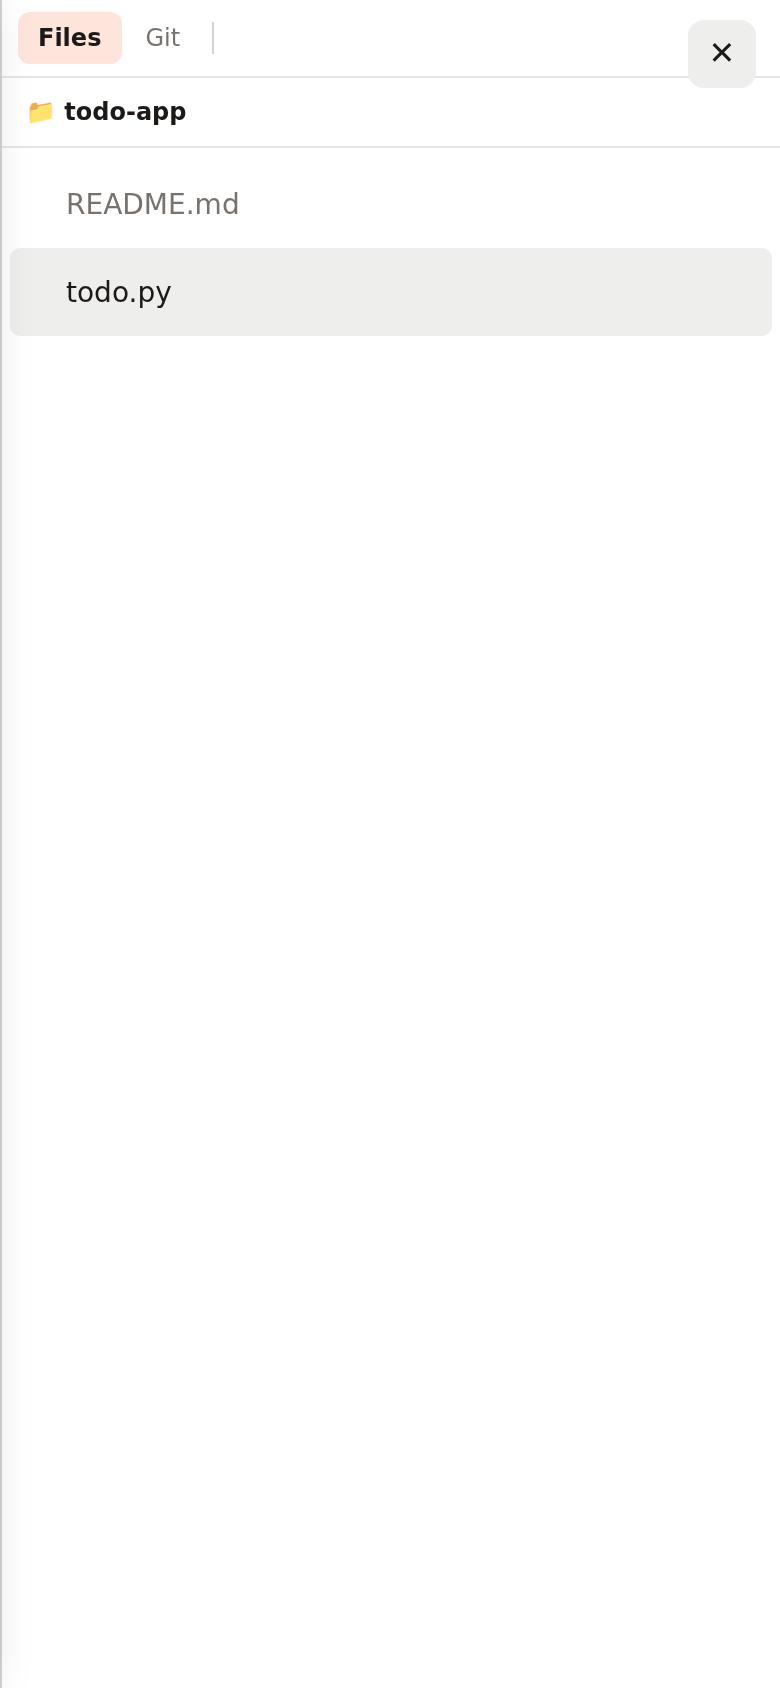
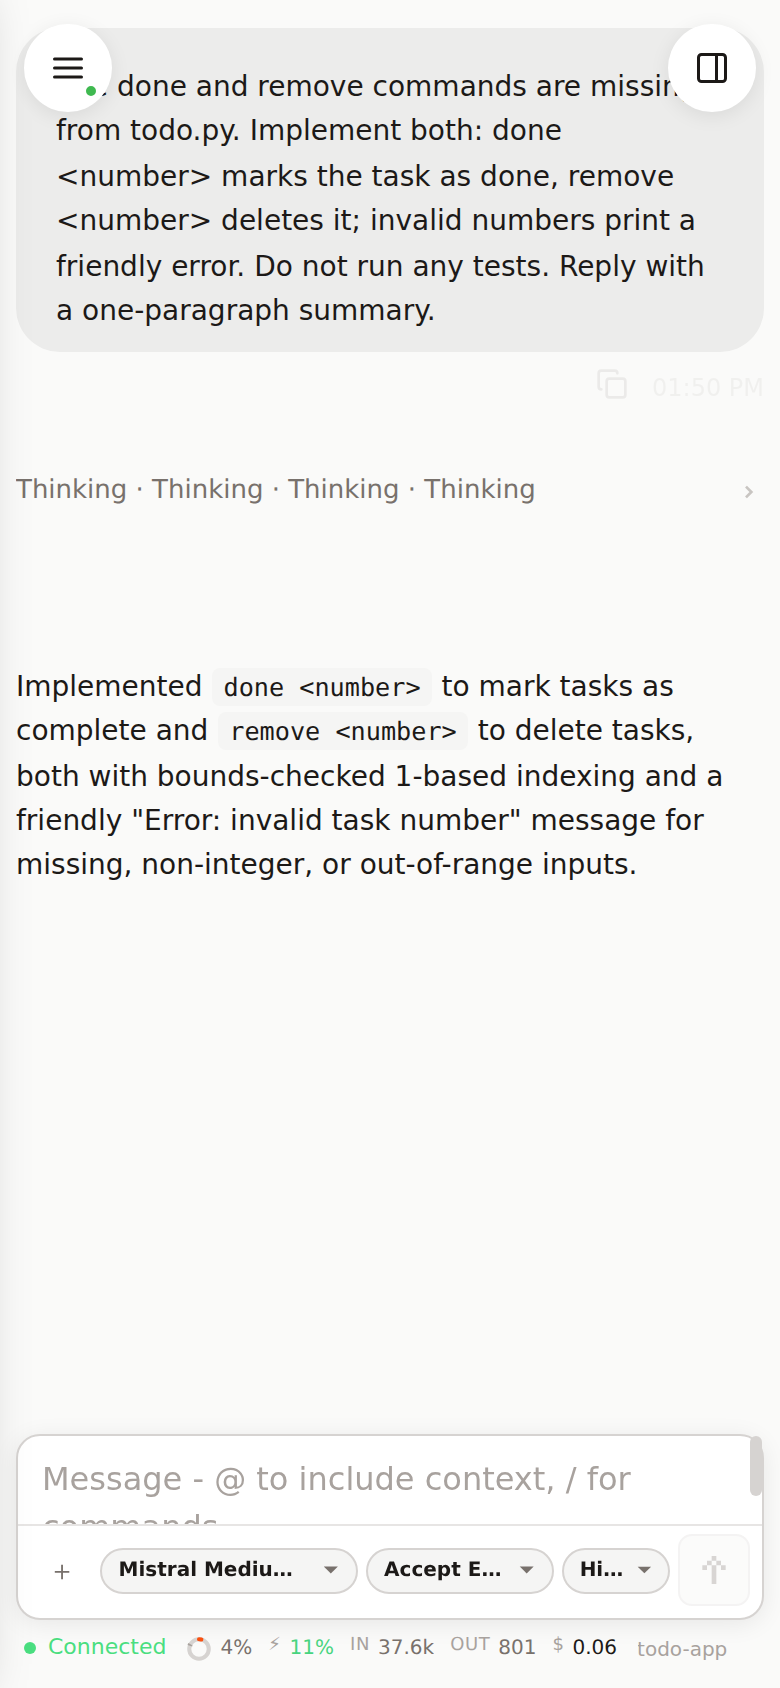
docs: mobile screenshot with one-row toolbar

diff --git a/src/renderer/src/styles/globals.css b/src/renderer/src/styles/globals.css
@@ -5507,11 +5507,14 @@ code {
 .picker-item-label { font-size: 13px; }
 .picker-item-desc { font-size: 11px; color: var(--text-muted); white-space: nowrap; overflow: hidden; text-overflow: ellipsis; max-width: 420px; }
 
-/* ── Narrow-window toolbar wrapping (v0.4.0) ── */
-.input-card-toolbar { flex-wrap: wrap; row-gap: 4px; }
-.input-card-left { flex-shrink: 1; min-width: 0; }
+/* ── Narrow-window toolbar (v0.4.0; v1.0.34: the attach button,
+   chips and send ALWAYS share one row - chips shrink with ellipsis
+   instead of wrapping, and show in full whenever there is room) ── */
+.input-card-toolbar { flex-wrap: nowrap; row-gap: 4px; }
+.input-card-left { flex-shrink: 1; min-width: 0; flex-wrap: nowrap; }
 .ic-folder-name { max-width: 220px; overflow: hidden; text-overflow: ellipsis; white-space: nowrap; }
-.input-card-right { flex-wrap: wrap; justify-content: flex-end; margin-left: auto; flex-shrink: 0; }
+.input-card-right { flex-wrap: nowrap; justify-content: flex-end; margin-left: auto; min-width: 0; }
+.input-card-right .ic-chip-wrap { min-width: 0; flex: 0 1 auto; }
 .settings-header { flex-wrap: wrap; gap: 8px; }
 .settings-tabs { flex-wrap: wrap; }
 
@@ -6097,20 +6100,25 @@ code {
         font-size: 16px;
         padding: 10px 12px 6px;
     }
+    /* v1.0.34: the attach button, chips and send ALWAYS share one row;
+       chips shrink (ellipsis) instead of wrapping */
     .input-card-toolbar {
-        flex-wrap: wrap;
+        flex-wrap: nowrap;
         gap: 6px;
         padding: 4px 6px 6px;
     }
     .input-card-left,
-    .input-card-right { flex-wrap: wrap; }
+    .input-card-right { flex-wrap: nowrap; min-width: 0; }
+    .input-card-right .ic-chip-wrap { min-width: 0; flex: 0 1 auto; }
     .ic-folder-name { max-width: 96px; }
     .ic-btn { width: 32px; height: 32px; }
     .ic-send-btn,
     .ic-stop-btn { width: 36px; height: 36px; }
 
-    /* chips: value only (the label is in the title tooltip) */
-    .ic-chip { max-width: 130px; padding: 3px 8px; font-size: 10px; }
+    /* chips: value only (the label is in the title tooltip); v1.0.34: no
+       fixed width cap - the chip fills its (possibly shrunk) wrapper and the
+       value ellipsizes only when the row is too tight */
+    .ic-chip { max-width: 100%; min-width: 0; padding: 3px 8px; font-size: 10px; }
     .ic-chip-label { display: none; }
     .ic-chip-dropdown {
         min-width: min(240px, 86vw);
@@ -6118,9 +6126,8 @@ code {
         max-height: 40vh;
         overflow-y: auto;
     }
-    /* chips wrap onto their own row on narrow screens: anchor each
-       dropdown so it stays inside the viewport (model/mode from the left,
-       thinking from the right edge) */
+    /* anchor each dropdown so it stays inside the viewport
+       (model from the left, mode/thinking from the right edge) */
     .input-card-right .ic-chip-wrap:nth-child(1) .ic-chip-dropdown {
         left: 0;
         right: auto;
